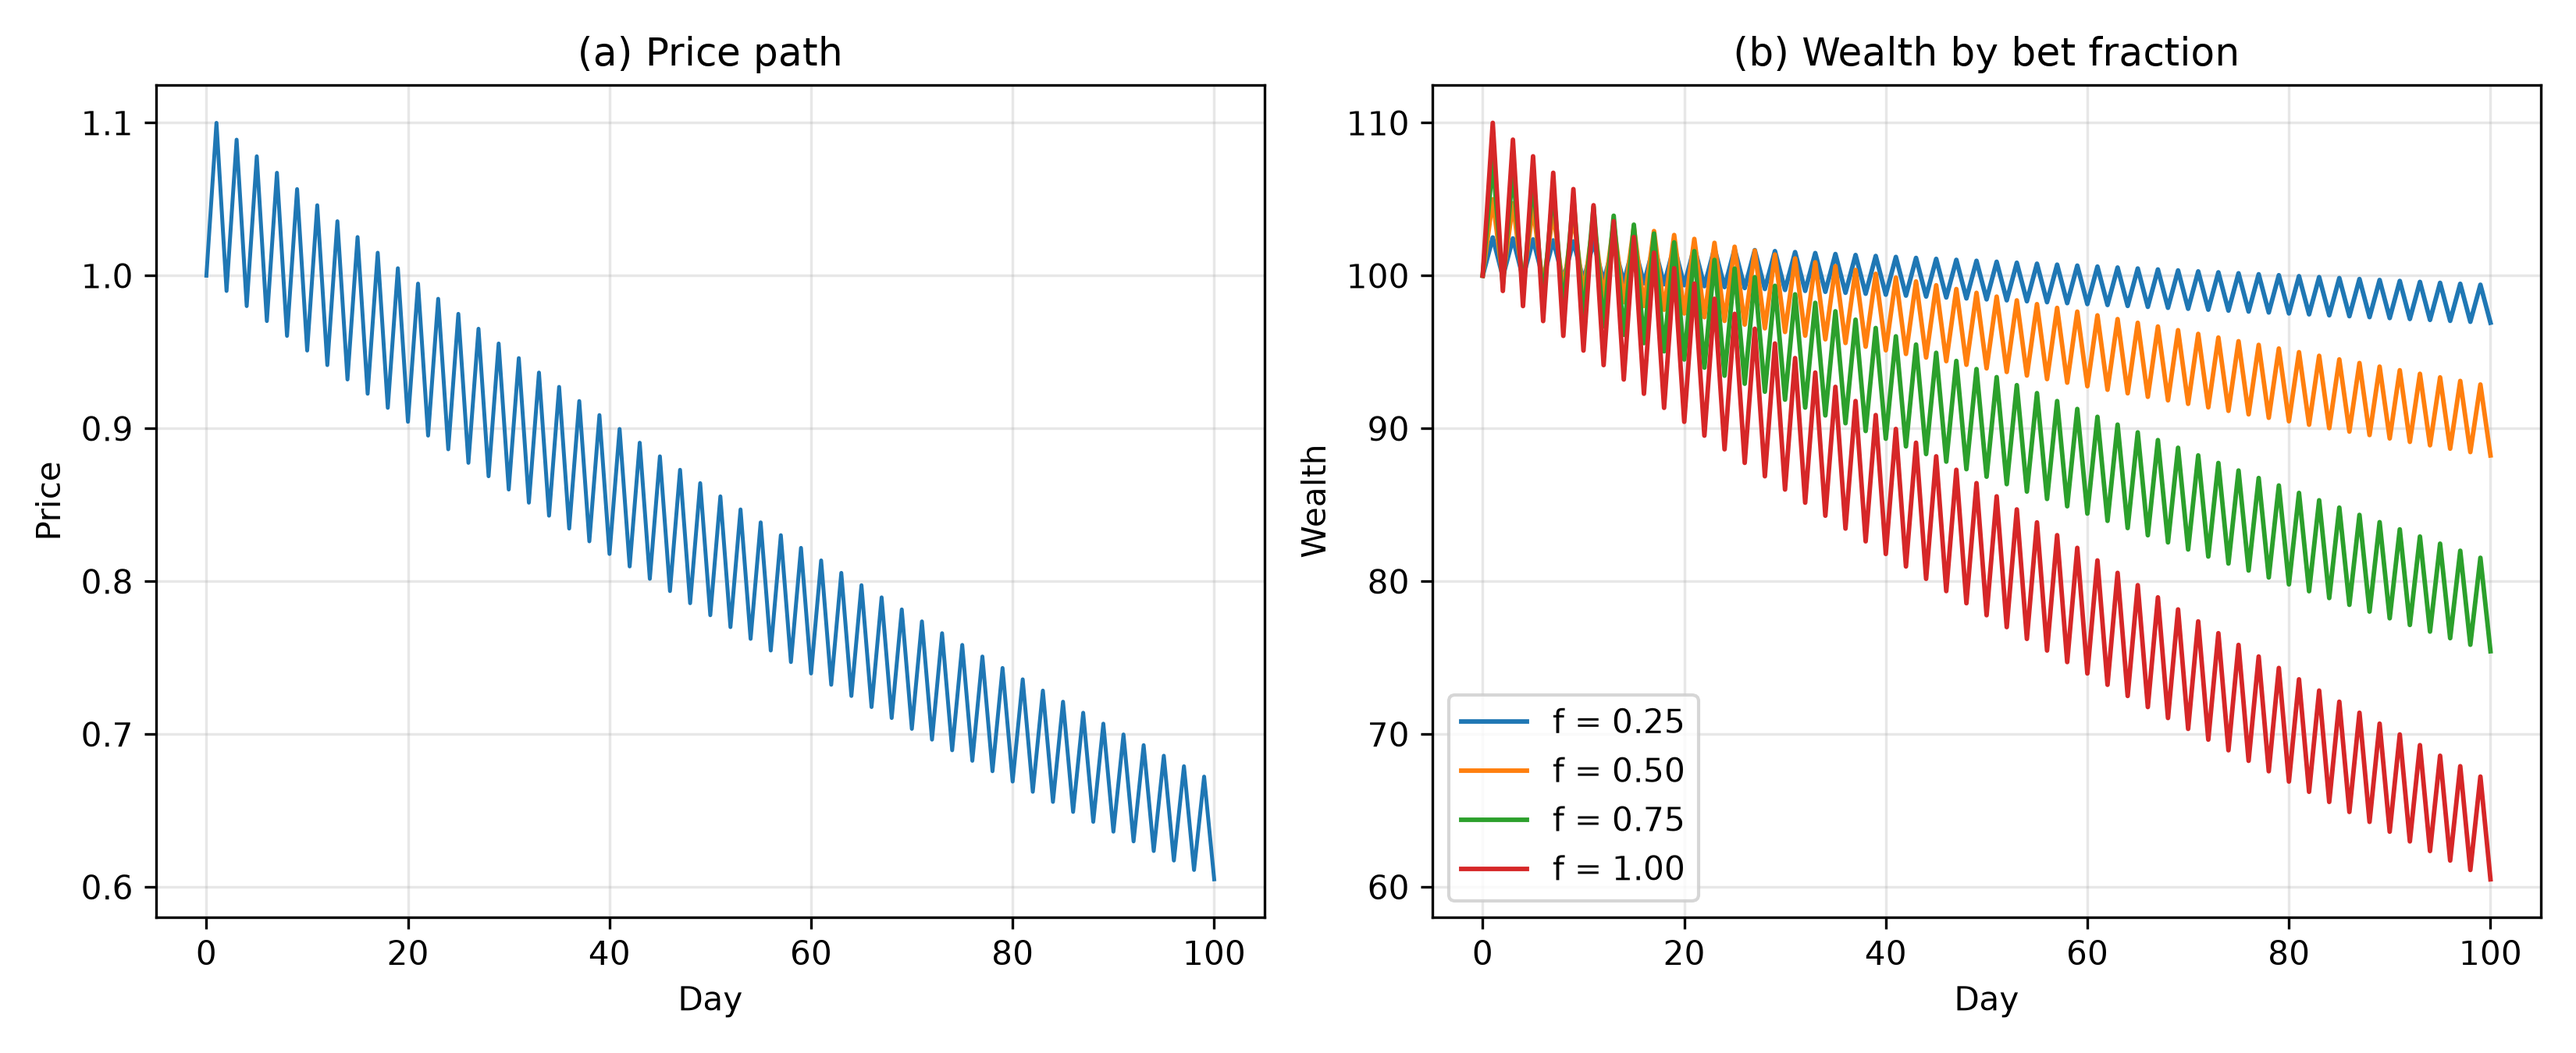
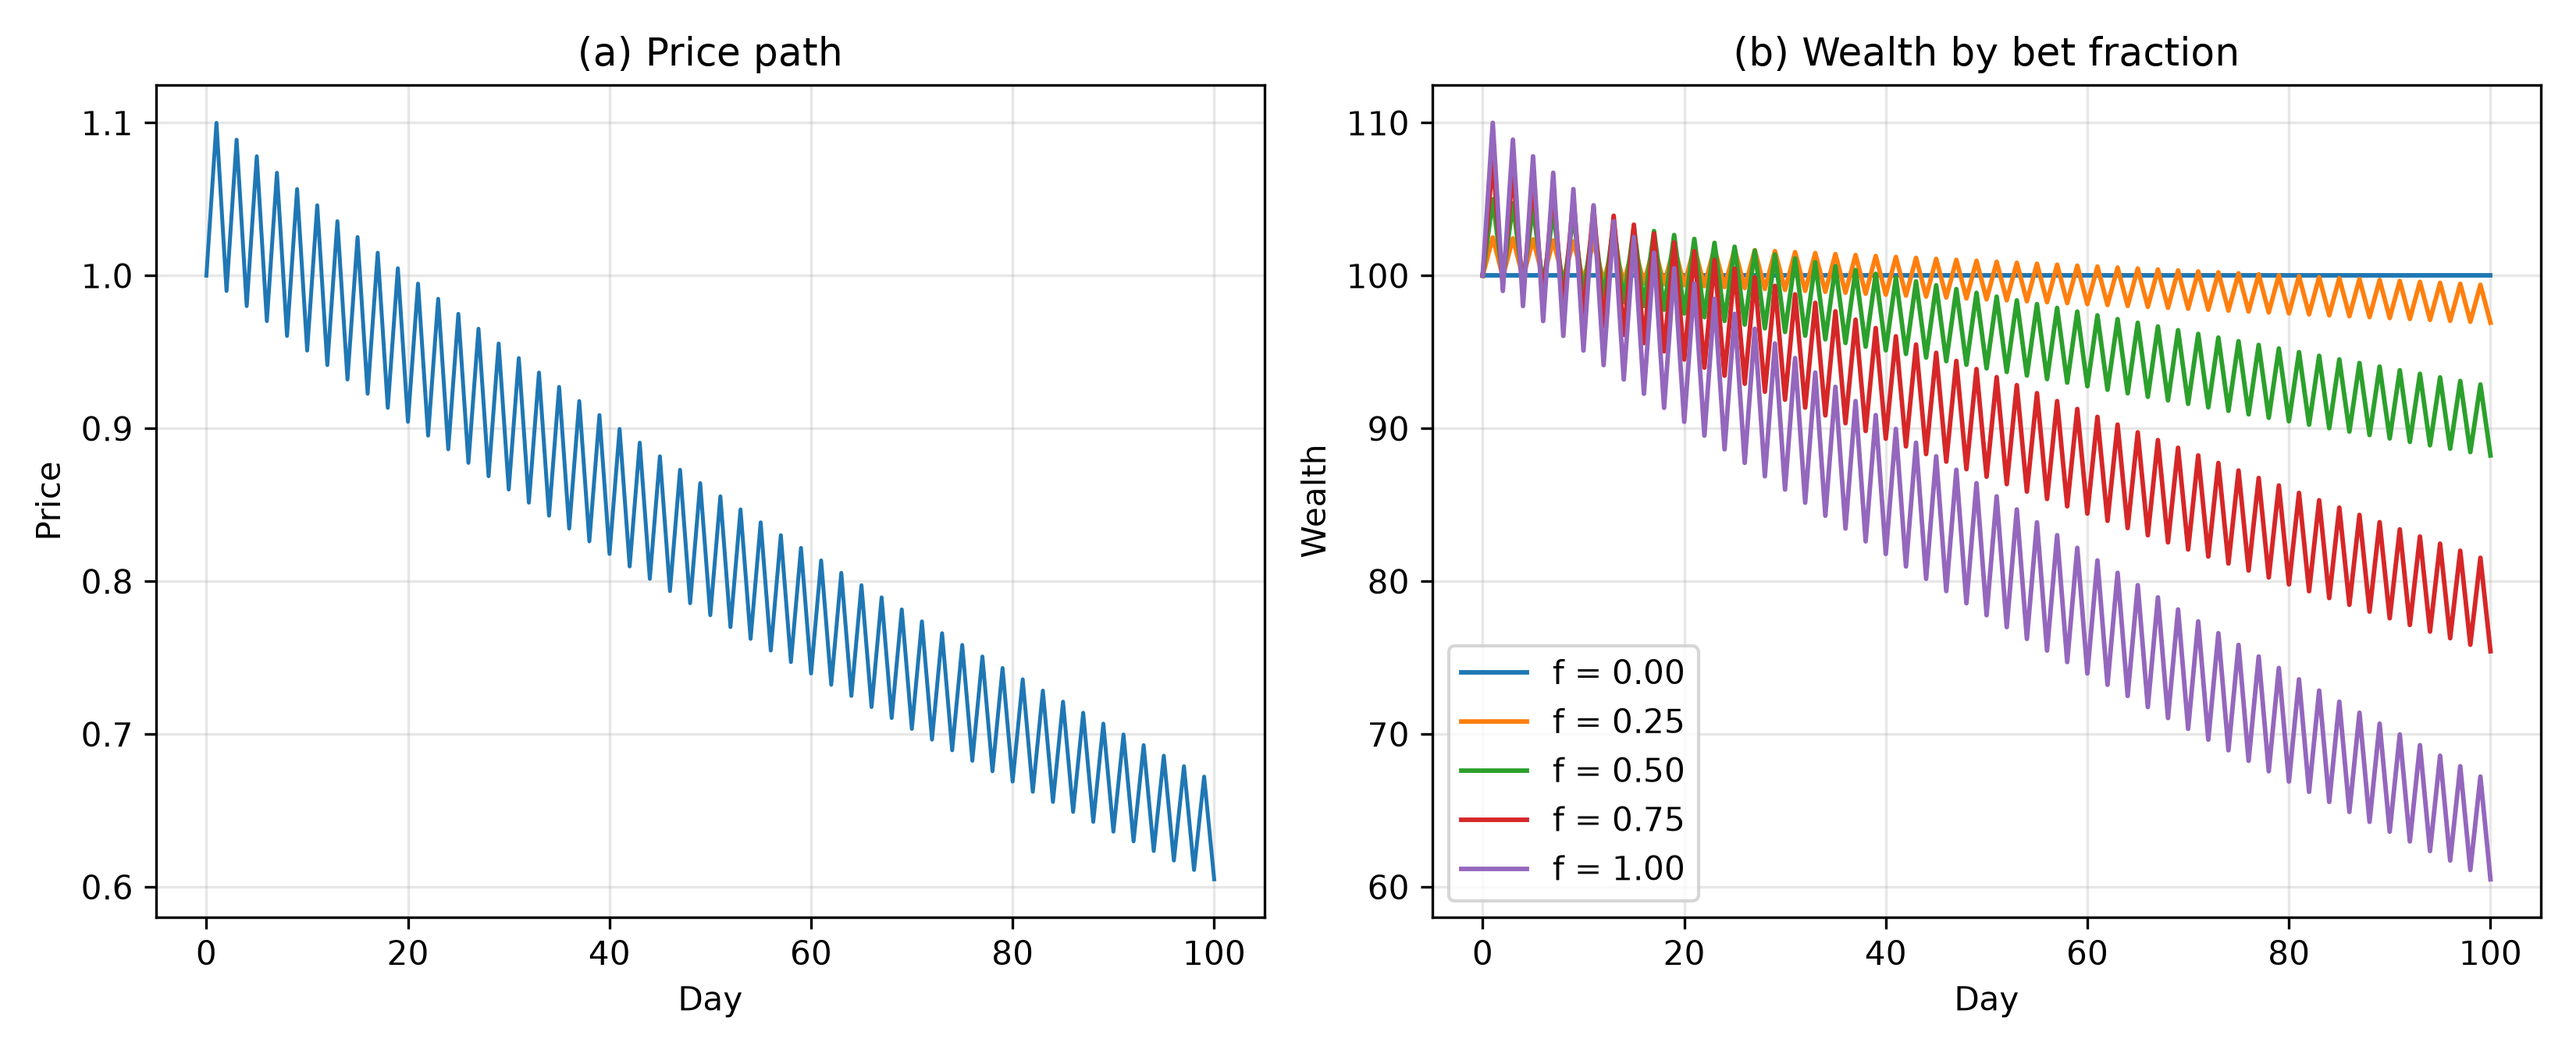
docs(kelly): draw the all-cash baseline in Appendix B
Add f = 0 to the wealth panel and to Table 2 so the staked paths are
read against a flat 100. alternating.py now accepts a zero fraction.

Claude-Session: https://claude.ai/code/session_012QYDksmpgTZRbhon3qb1cF

diff --git a/Stock/Kelly-Criterion/src/alternating.py b/Stock/Kelly-Criterion/src/alternating.py
@@ -8,10 +8,11 @@ closed-form multiplier that explains the result.
 
 Changelog:
 - 0.0.0 Initial release.
+- 0.1.0 Accept a zero fraction, so the all-cash baseline can be drawn alongside the staked paths.
 """
 
 __author__ = 'yRocket'
-__version__ = "0.0.0.2026.8.30"
+__version__ = "0.1.0.2026.8.30"
 
 import argparse
 import enum
@@ -46,7 +47,7 @@ DEFAULT_DOWN_RATE = 0.10
 DEFAULT_N_DAYS = 100
 DEFAULT_INITIAL_PRICE = 1.0
 DEFAULT_INITIAL_WEALTH = 100.0
-DEFAULT_FRACTIONS = (0.25, 0.50, 0.75, 1.00)
+DEFAULT_FRACTIONS = (0.00, 0.25, 0.50, 0.75, 1.00)
 
 
 class Column(enum.StrEnum):
@@ -110,9 +111,12 @@ class AlternatingPath:
         return self._spec.initial_price * growth
 
     def wealth(self, fraction: float) -> np.ndarray:
-        """Wealth on day 0 through day `n_days` when `fraction` of it is staked every day."""
-        if fraction <= 0.0:
-            raise ValueError(f"fraction must be positive; got {fraction}.")
+        """Wealth on day 0 through day `n_days` when `fraction` of it is staked every day.
+
+        A fraction of 0 leaves everything in cash, so the path stays flat at the initial wealth.
+        """
+        if fraction < 0.0:
+            raise ValueError(f"fraction must not be negative; got {fraction}.")
         if fraction >= self._spec.ruin_fraction:
             raise ValueError(
                 f"fraction {fraction} reaches ruin on a down day; "
@@ -208,16 +212,16 @@ def parse_args() -> argparse.Namespace:
     parser.add_argument('--initial-wealth', type=float, default=DEFAULT_INITIAL_WEALTH,
                         help='wealth on day 0')
     parser.add_argument('--fractions', type=float, nargs='+', default=list(DEFAULT_FRACTIONS),
-                        help='bet fractions traced on the wealth panel')
+                        help='bet fractions traced on the wealth panel; 0 draws the all-cash baseline')
 
     args = parser.parse_args()
     parent = args.output_folder.parent if args.output_folder.parent != pathlib.Path('') else pathlib.Path('.')
     if not parent.is_dir():
         parser.error(f"--output-folder {args.output_folder} cannot be created: {parent} is not a folder.")
     ruin_fraction = 1.0 / args.down_rate if args.down_rate > 0.0 else float('inf')
-    out_of_range = [f for f in args.fractions if f <= 0.0 or f >= ruin_fraction]
+    out_of_range = [f for f in args.fractions if f < 0.0 or f >= ruin_fraction]
     if out_of_range:
-        parser.error(f"--fractions {out_of_range} fall outside (0, {ruin_fraction}), the ruin fraction.")
+        parser.error(f"--fractions {out_of_range} fall outside [0, {ruin_fraction}), the ruin fraction.")
     return args
 
 

diff --git a/Stock/Kelly-Criterion/Kelly_Criterion.md b/Stock/Kelly-Criterion/Kelly_Criterion.md
@@ -1,6 +1,6 @@
 # Kelly Criterion
 
-Rev. 10 | Created: 2026-08-30 | Updated: 2026-08-30 16:13 UTC
+Rev. 11 | Created: 2026-08-30 | Updated: 2026-08-30 16:22 UTC
 
 > **Goal** — 베팅 비중 하나가 장기 성장률을 얼마나 좌우하는지 수치로 확정한다. "적당히 걸어라" 가 아니라 "최적 비중이 얼마이고, 거기서 벗어나면 성장률과 손실 확률이 각각 얼마나 나빠지는가" 를 판단 기준으로 쓸 수 있게 한다.
 >
@@ -185,17 +185,18 @@ $$\Delta g = 0.5 \ln \frac{1.5000}{1.2500} + 0.5 \ln \frac{0.7500}{0.8750} = 0.5
 본문의 게임은 배수가 2배와 반토막이라 값이 크다. 이 부록은 훨씬 얌전한 가격 경로 하나를 끝까지 따라가, 우위가 없을 때 비중이 무엇을 하는지 보인다. 주가는 1 에서 출발해 홀수 날 10% 오르고 짝수 날 10% 내리며, 이를 100일 반복한다. 투자금은 100 이고, 매일 자산의 고정 비율 $f$ 를 그 주식에 두고 나머지는 현금으로 둔다. 현금 배수는 본문과 같이 $c = 1$ 이다.
 
 <img src="Kelly_Criterion_fig/alternating/wealth_paths.png" width="900" style="max-width: 100%; display: block;" alt="Fig 4">
-Fig 4. Price path and the wealth it produces at four bet fractions
+Fig 4. Price path and the wealth it produces at five bet fractions
 
 Table 2. Wealth after 100 days by bet fraction, starting from 100
 | Bet fraction | Two-day multiplier | Final wealth | Total return |
 |---|---|---|---|
+| 0.00 | 1.000000 | 100.0000 | 0.0000% |
 | 0.25 | 0.999375 | 96.9224 | -3.0776% |
 | 0.50 | 0.997500 | 88.2359 | -11.7641% |
 | 0.75 | 0.994375 | 75.4241 | -24.5760% |
 | 1.00 | 0.990000 | 60.5006 | -39.4994% |
 
-네 비중 모두 손실이며, 비중이 클수록 손실이 크다. 이틀이 한 주기이므로 100일은 주기 50회이고, 한 주기의 배수는 다음과 같다.
+$f = 0$ 은 전액을 현금으로 두는 것이므로 자산이 100 에 그대로 있고, 나머지 네 비중은 모두 손실이며 비중이 클수록 손실이 크다. 이틀이 한 주기이므로 100일은 주기 50회이고, 한 주기의 배수는 다음과 같다.
 
 $$(1 + 0.10 f)(1 - 0.10 f) = 1 - 0.01 f^2$$
 
@@ -228,9 +229,9 @@ Table 3. CLI options of `alternating.py`
 | `--n-days` | int | 100 | no | 경로의 길이 |
 | `--initial-price` | float | 1.0 | no | 0일의 주가 |
 | `--initial-wealth` | float | 100.0 | no | 0일의 자산 |
-| `--fractions` | float list | 0.25 0.50 0.75 1.00 | no | 자산 경로를 그릴 비중 |
+| `--fractions` | float list | 0.00 0.25 0.50 0.75 1.00 | no | 자산 경로를 그릴 비중 |
 
-파산 비중 이상의 `--fractions` 는 에러로 막는다. 그 비중에서는 하락일 하루가 자산을 0 이하로 만들어 이후의 경로가 뜻을 잃기 때문이다.
+음수이거나 파산 비중 이상인 `--fractions` 는 에러로 막는다. 그 비중에서는 하락일 하루가 자산을 0 이하로 만들어 이후의 경로가 뜻을 잃기 때문이다.
 
 ## Appendix C. The `kelly.py` script
 
